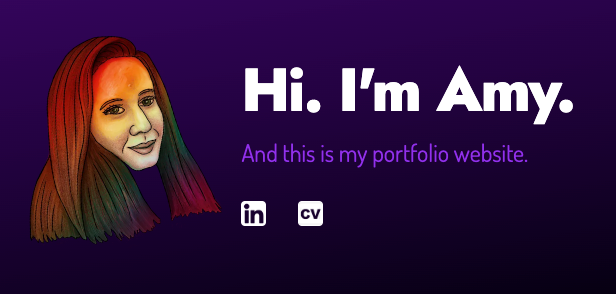
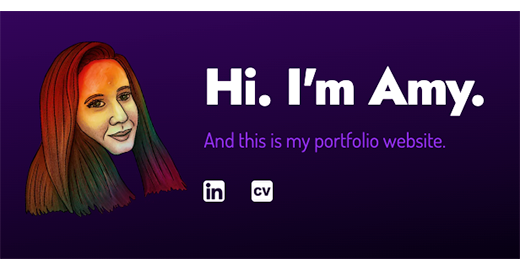
Image size change preview

diff --git a/app/page.tsx b/app/page.tsx
@@ -19,8 +19,8 @@ export const metadata: Metadata = {
     url: "https://alf.tchldr.com",
     images: [
       {
-        width: 643,
-        height: 272,
+        width: 520,
+        height: 270,
         url: "https://alf.tchldr.com/imgs/preview.png",
       },
     ],
